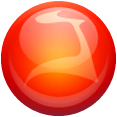
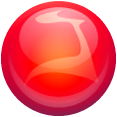
Ячейки и шарики теперь отрисовываются на отдельных поверхностях

diff --git a/classes.py b/classes.py
@@ -96,26 +96,39 @@ class PoolPainter:
 
     CELL_BACKGROUND_COLOR = (210,) * 3
     CELL_BORDER_COLOR = (150,) * 3
-    BALL_SCALE_FACTOR = 1.7
+    BALL_SCALE_FACTOR = 1.3
 
     SMOOTH_FACTOR = 0.15
     SMOOTH_DEPTH = 1
+
+    TRANSPARENT_COLOR = (127,) * 3
 
     def __init__(self, pg, pool, sc, cmp_color_label, player_color_label):
         self.pg = pg
         self.pool = pool
         self.sc = sc
 
+        # Готовим списки ячеек и их координат
         self.cells = deepcopy(pool.cells)
         self.cells_coord = self._create_cell_coords()
 
-        scale = int(self.BALL_SCALE_FACTOR * RADIUS * cos(pi / 6))
+        # Загружаем спрайты с красными и синими шариками
+        self.ball_size = int(self.BALL_SCALE_FACTOR * RADIUS * cos(pi / 6))
 
         self.cmp_ball_surface = pg.image.load(f'ball_{cmp_color_label}.png')
-        self.cmp_ball_surface = pg.transform.scale(self.cmp_ball_surface, (scale, scale))
+        self.cmp_ball_surface = pg.transform.scale(self.cmp_ball_surface, (self.ball_size,) * 2)
 
         self.player_ball_surface = pg.image.load(f'ball_{player_color_label}.png')
-        self.player_ball_surface = pg.transform.scale(self.player_ball_surface, (scale, scale))
+        self.player_ball_surface = pg.transform.scale(self.player_ball_surface, (self.ball_size,) * 2)
+
+        # Готовим поверхности для отрисовки ячеек и шариков
+        self.cells_surface = pg.Surface((W, H))
+        self.cells_surface.set_colorkey(self.TRANSPARENT_COLOR)
+        self.cells_surface.fill(self.TRANSPARENT_COLOR)
+
+        self.balls_surface = pg.Surface((W, H))
+        self.balls_surface.set_colorkey(self.TRANSPARENT_COLOR)
+        self.balls_surface.fill(self.TRANSPARENT_COLOR)
 
     def _create_cell_coords(self):
         """Метод создает координаты ячеек игрового поля по их ключам"""
@@ -196,6 +209,14 @@ class PoolPainter:
 
         return self._smooth(smooth_coords, depth - 1)
 
+    @staticmethod
+    def _normalize_value(value):
+        if value < 0:
+            return -1
+        elif value > 0:
+            return 1
+        return value
+
     def _cell_at_dot(self, dot):
         """
         Метод возвращает ключ ячейки, в которую попадает переданная точка.
@@ -203,7 +224,7 @@ class PoolPainter:
         """
 
         x, y = dot
-        for key, cell_coord in self.cells_coord:
+        for key, cell_coord in self.cells_coord.items():
             x0 = cell_coord['x0']
             y0 = cell_coord['y0']
             coords = cell_coord['coords']
@@ -224,22 +245,22 @@ class PoolPainter:
 
         return None
 
-    @staticmethod
-    def _normalize_value(value):
-        if value < 0:
-            return -1
-        elif value > 0:
-            return 1
-        return value
+    def set_cursor_pos(self, pos):
+        """ Метод устанавливает координаты курсора (для выделения ячейки под курсором)"""
+
+        key = self._cell_at_dot(pos)
+        print(key)
 
     def draw(self):
         # Отрисовываем гексы
+        self.cells_surface.fill(self.TRANSPARENT_COLOR)
         for cell_coord in self.cells_coord.values():
             coords = cell_coord['coords']
-            self.pg.draw.polygon(self.sc, self.CELL_BACKGROUND_COLOR, coords)
-            self.pg.draw.polygon(self.sc, self.CELL_BORDER_COLOR, coords, 1)
+            self.pg.draw.polygon(self.cells_surface, self.CELL_BACKGROUND_COLOR, coords)
+            self.pg.draw.polygon(self.cells_surface, self.CELL_BORDER_COLOR, coords, 1)
 
         # Отрисовываем шарики
+        self.balls_surface.fill(self.TRANSPARENT_COLOR)
         for key, cell in self.cells.items():
             ball = cell['content']
             if not ball:
@@ -254,4 +275,8 @@ class PoolPainter:
 
             ball_w, ball_h = ball_surface.get_width(), ball_surface.get_height()
             x, y = self.cells_coord[key]['x0'], self.cells_coord[key]['y0']
-            self.sc.blit(ball_surface, (x - ball_w // 2, y - ball_h // 2))
+            self.balls_surface.blit(ball_surface, (x - ball_w // 2, y - ball_h // 2))
+
+        # Объединяем поверхности
+        self.sc.blit(self.cells_surface, (0, 0))
+        self.sc.blit(self.balls_surface, (0, 0))

diff --git a/start.py b/start.py
@@ -23,6 +23,9 @@ def main(cmp_color_label, player_color_label):
                 pg.quit()
                 exit()
 
+            if event.type == pg.MOUSEMOTION:
+                pool_painter.set_cursor_pos(event.pos)
+
         background.draw(sc)
         pool_painter.draw()
         pg.display.update()
